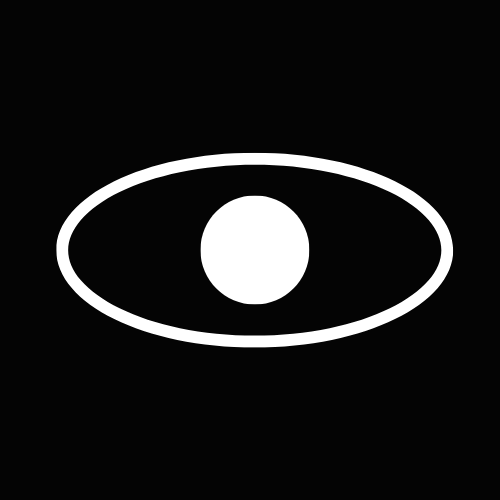
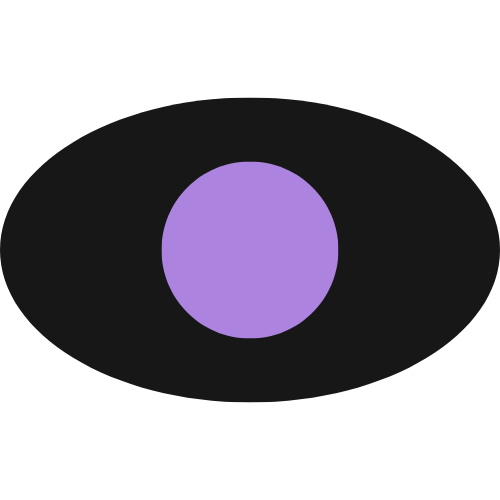
Intentando solucionar el problema del Atropos js

diff --git a/css/style.css b/css/style.css
@@ -11,6 +11,7 @@
     --size-icon: 1.5em;
 
     /* Texto */
+    --title-color: linear-gradient(90deg, rgba(137,131,247,1) 0%, rgba(211,186,249,1) 50%, rgba(137,131,247,1) 100%);
     --general-color: #8983f7;
     --text-color-descripcion: #a3a3a3;
     --text-color: #f7f7f7;
@@ -35,11 +36,16 @@
 }
 
 .light-theme {
-    --body-color: #dadada;
+    --body-color: #e4e4e4;
+
+    --title-color: linear-gradient(90deg, rgba(137,131,247,1) 0%, rgba(76,67,91,1) 50%, rgba(137,131,247,1) 100%);
     --text-color: #191919;
-    --container-color: #b3b3b3;
+    --text-color-descripcion: #3a3a3a;
+
+    --container-color: #6e6e6e;
     --scroll-color: #838383;
     --cursor-color: #111111;
+
     --mini-ojo: #000000;
     --mini-punto: #ffffff;
     --nav-color: #ececec;
@@ -47,10 +53,14 @@
 
 .dark-theme {
     --body-color: #111111;
+    --title-color: linear-gradient(90deg, rgba(137,131,247,1) 0%, rgba(211,186,249,1) 50%, rgba(137,131,247,1) 100%);
     --text-color: #f7f7f7;
+    --text-color-descripcion: #a3a3a3;
+
     --container-color: #191919;
     --scroll-color: #1D222F;
     --cursor-color: #dadada;
+
     --mini-ojo: #ffffff;
     --mini-punto: #000000;
     --nav-color: #111111;
@@ -165,7 +175,7 @@
 
     background-color: var(--nav-color);
 
-    transition: padding .5s;
+    transition: padding .5s, background .3s;
 }
 
 .nav-right {
@@ -315,25 +325,31 @@
 }
 
 .nav-a:hover::after {
+    content: '';
     position: absolute;
     bottom: 15%;
-    left: 15%;
+    left: 38%;
 
-    width: 70%;
-    height: 6px;
+    width: 40%;
+    height: 4px;
     border-radius: 20px;
 
     opacity: 0;
-    content: "";
+    
 
     background-color: #ac84e0;
 
     animation: upBar .3s forwards;
 }
 
-/* .nav-a:hover:first-child::after {
+
+.nav__item:first-child > .nav-a::after {
     animation: upBarTwo .3s forwards;
-} */
+}
+
+.nav__item:last-child > .nav-a::after {
+    animation: upBarTwo .3s forwards;
+}
 
 @keyframes upBar {
     from{ transform: scale(0.5); opacity: 0;}
@@ -341,11 +357,11 @@
     to{ transform: scale(1); rotate: 2deg; opacity: 1;}
 }
 
-/* @keyframes upBarTwo {
+@keyframes upBarTwo {
     from{ transform: scale(0.5); opacity: 0;}
 
-    to{ transform: scale(1); rotate: -2deg; opacity: 1;}
-} */
+    to{ transform: scale(1); rotate: -3deg; opacity: 1;}
+}
 
 .nav-a:hover {
     color: #ac84e0e6;
@@ -360,7 +376,6 @@
     display: flex;
     justify-content: center;
     height: 100%;
-    padding: 0 20px;
 }
 
 .sub__nav-right {
@@ -376,11 +391,28 @@
 }
 
 .switch {
-    height: var(--height-nav);
-    width: 100%;
     display: flex;
     align-items: center;
     justify-content: center;
+
+    width: 100%;
+    height: var(--height-nav);
+    padding: 0 20px;
+}
+
+.switch:hover, .idioma:hover {
+    animation: moveIcon .5s;
+
+}
+
+@keyframes moveIcon {
+    from { transform: rotate(0deg) translate(0, 0);}
+
+    33% { transform: rotate(5deg) translate(0px, 3px);}
+
+    66% { transform: rotate(-5deg) translate(0, -5px);}
+
+    to { transform: rotate(0deg) translate(0, 0);}
 }
 
 .checkbox {
@@ -434,7 +466,9 @@
     width: 550px;
     height: 550px;
 
-    background-color: #191919;
+    background-color: var(--container-color);
+
+    transition: background .5s;
     animation: container-ojo 1s 1.5s forwards;
 }
 
@@ -467,7 +501,7 @@
     padding: 15px 0 5px 0;
     background-clip: content-box;
     background: rgb(137,131,247);
-    background: linear-gradient(90deg, rgba(137,131,247,1) 0%, rgba(211,186,249,1) 50%, rgba(137,131,247,1) 100%);
+    background: var(--title-color);
     -webkit-text-fill-color: transparent;
     -webkit-background-clip: text;
     word-spacing: 1px;
@@ -695,7 +729,6 @@
 
 /* Estilos de la sección de mis proyectos */
 #mis-proyectos {
-
     height: 100vh;
     color: #ffffff;
 }
@@ -775,7 +808,6 @@ section {
     font-weight: 300;
 }
 
-
 /* Estilos de la sección de contacto */
 #contacto {
     display: flex;
@@ -851,7 +883,6 @@ section {
     background-color: var(--general-color) !important;
     color: var(--general-color) !important;
 }
-
 
 .form__input:-webkit-autofill {
     background-color: var(--general-color) !important;
@@ -959,6 +990,10 @@ section {
 }
 
 /* Preloader */
+.importante {
+    display: block !important;
+}
+
 .preloader {
     position: fixed;
     top: 0;
@@ -1034,7 +1069,6 @@ section {
     }
 }
 
-
 .carga {
     width: 70px;
     height: 70px;
@@ -1065,6 +1099,10 @@ section {
     to{ transform: rotate(360deg);}
 }
 
+
+
+
+/* Estilos de los proyectos */
 .gallery {
     position: relative;
     top: 50%;
@@ -1076,7 +1114,6 @@ section {
     background-color: transparent;
 }
 
-/* Proycto */
 .gallery-cell {
     width: 66%;
     height: 500px;
@@ -1095,7 +1132,6 @@ section {
     color: var(--general-color);
 }
 
-/* Footer */
 
 
 

diff --git a/index.html b/index.html
@@ -55,7 +55,7 @@
 	
 	<!-- Título e Ícono-->
 	<title>Gabriel Johann Rojas</title>
-	<link rel="icon" href="img/ico1.png" type="image/png">
+	<link rel="icon" href="img/ojo-ico.png" type="image/png">
 	<!-- <link rel="manifest" href="/manifest.json"> -->
 	<link rel="author" href="gabriel.johann.rojas369@gmail.com">
 
@@ -123,26 +123,29 @@
 				</div>
 			</nav>
 		</header>
+	</div>
 		<!-- Contenido -->
 		<main class="main">
 		<!-- Inicio -->
-			<section id="inicio">
-				<div class="inicio inicio__container">
-					<h1 class="txt descripcion-arriba">¿Qué tal? soy</h1>
-					<h1 class="txt title-1 title">Gabriel Rojas </h1>
-					<span class="txt soporteTI">Soporte TI </span>
-					<p class="txt descripcion">
-						Soy un desarrollador frontend apasionado por crear experiencias web únicas
-						e impresionantes con HTML, CSS y JavaScript.
-					</p>
-				</div>
-				<div class="inicio inicio__container-ojo">
-					<div class="ojo">
-						<div id="div-sonido" class="punto"></div>
+			<div class="internoTwo loading">
+				<section id="inicio">
+					<div class="inicio inicio__container">
+						<h1 class="txt descripcion-arriba">¿Qué tal? soy</h1>
+						<h1 class="txt title-1 title">Gabriel Rojas </h1>
+						<span class="txt soporteTI">Soporte TI </span>
+						<p class="txt descripcion">
+							Soy un desarrollador frontend apasionado por crear experiencias web únicas
+							e impresionantes con HTML, CSS y JavaScript.
+						</p>
 					</div>
-				</div>
+					<div class="inicio inicio__container-ojo">
+						<div class="ojo">
+							<div id="div-sonido" class="punto"></div>
+						</div>
+					</div>
 
-			</section>
+				</section>
+			</div>
 		<!-- Sobre mí -->
 			<section id="sobre-mi">
 				<h2 class="title-2 sobre-mi__text">Sobre mí</h2>
@@ -260,7 +263,7 @@
 				</ul>
 			</nav>
 		</footer>
-	</div>
+	
 <!-- Scripts -->
 	<script src="flickity/flickity.pkgd.min.js"></script>
 	<script src="atropos/atropos.min.js"></script>

diff --git a/js/function.js b/js/function.js
@@ -206,8 +206,11 @@ window.addEventListener('focus', () => {
 window.addEventListener("load", () => {
 	const preloader = document.querySelector(".preloader");
 	const contenido = document.querySelector(".interno");
+	const contenidoTwo = document.querySelector(".internoTwo");
+	
 	setTimeout(() => {
 		contenido.classList.remove("loading");
+		contenidoTwo.classList.remove("loading");
 		preloader.classList.add("fadeOut");
 		
 	}, 2000);
